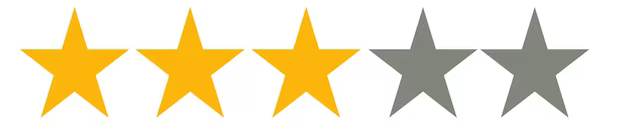
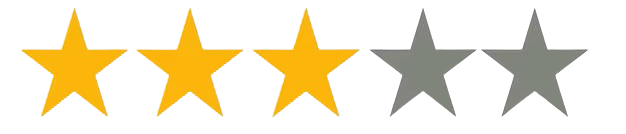
star image temp

diff --git a/main_page.html b/main_page.html
@@ -33,6 +33,9 @@
             background-color: rgb(70, 70, 70);
             border-radius: 36%;
         }
+            .orders {
+            
+            }
     </style>
 </head>
 <body>
@@ -42,8 +45,10 @@
     </header>
     <button class="settings"> 
         <img src="res/icons8-settings-48.png" onclick="location.replace('settings.html')">
-
         </button>
+        <button class=""> 
+            <img src="res/icons8-settings-48.png"  onclick="location.replace('settings.html')">
+            </button>
     <style>
     h1 {
         color: white;
@@ -71,6 +76,7 @@
     <div class="content">
    <img src="res/multicoloured-mouse.avif" style="width: 200px;", ></img>
     <img src="res/keyboeadfr.png" style="width: 200px;"onclick="location.replace('product_page.html')"></img>
+    <img src="res/three-out-of-five-stars.png" width=5% onclick="location.replace('product_page.html')">
     <img src="res/multicoloured-mouse.avif" style="width: 200px;", ></img>
             <img src="res/keyboeadfr.png" style="width: 200px;"onclick="location.replace('product_page.html')"></img>
             <img src="res/multicoloured-mouse.avif" style="width: 200px;", ></img>
